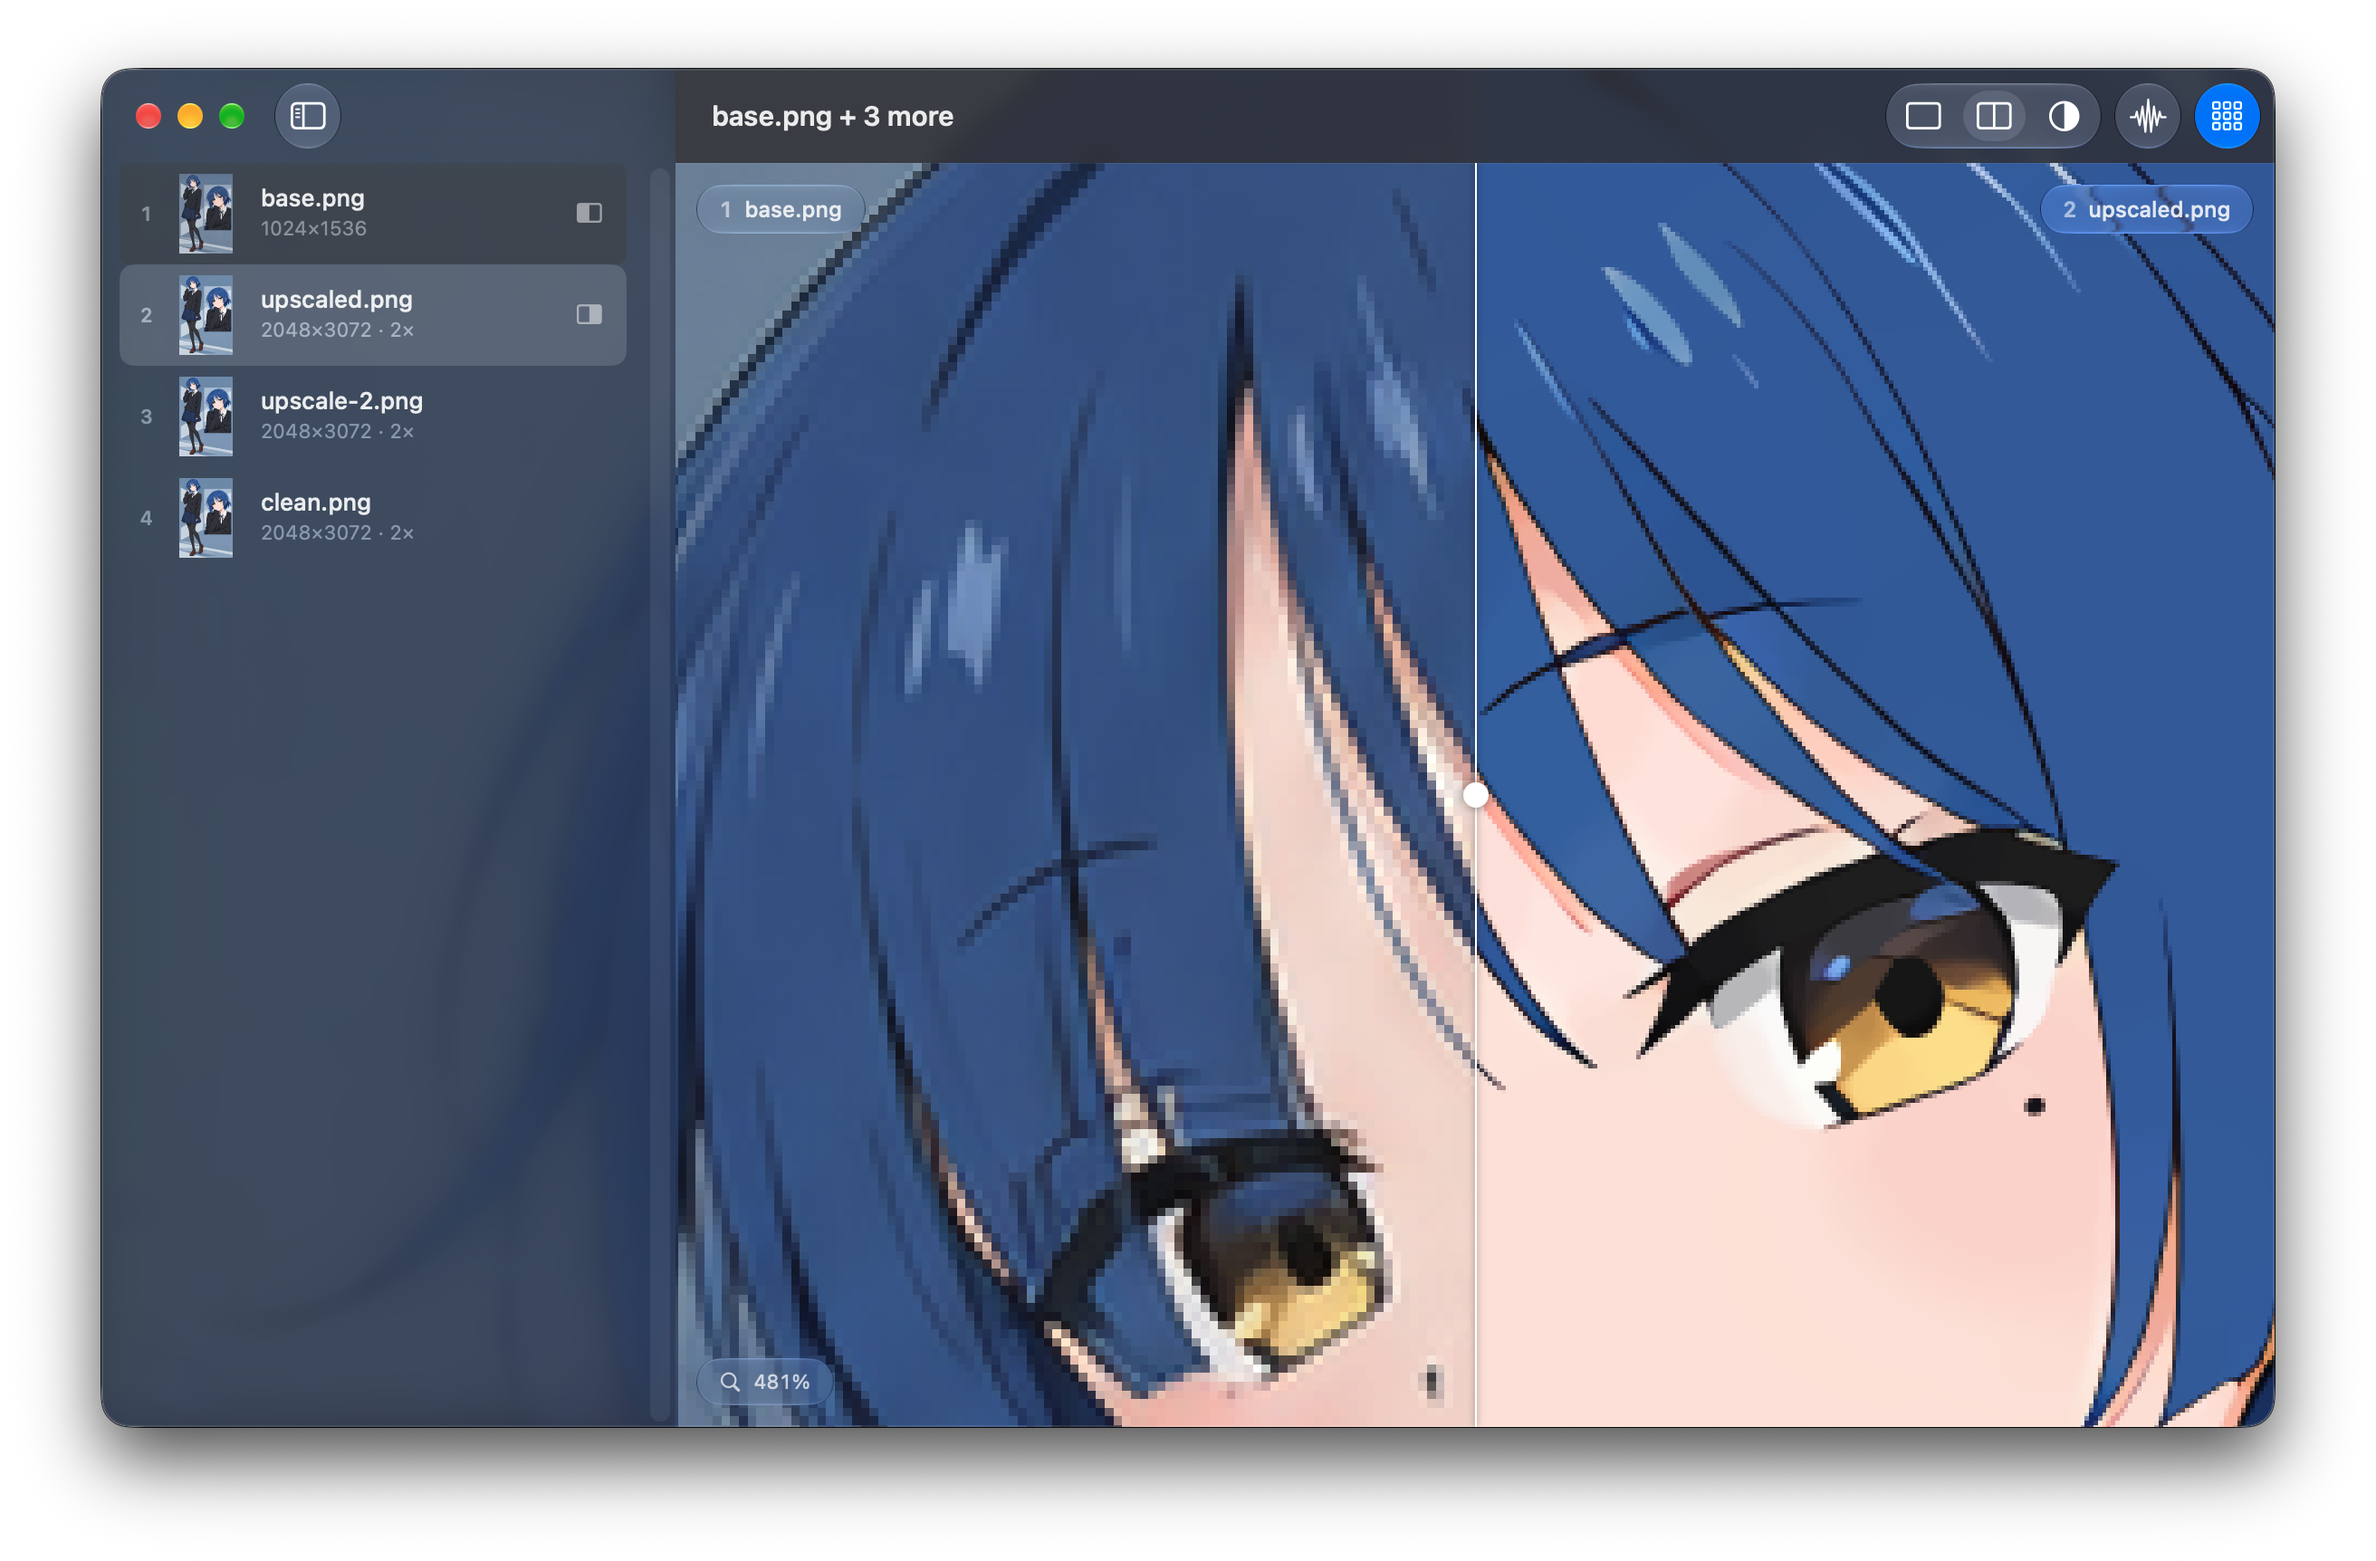
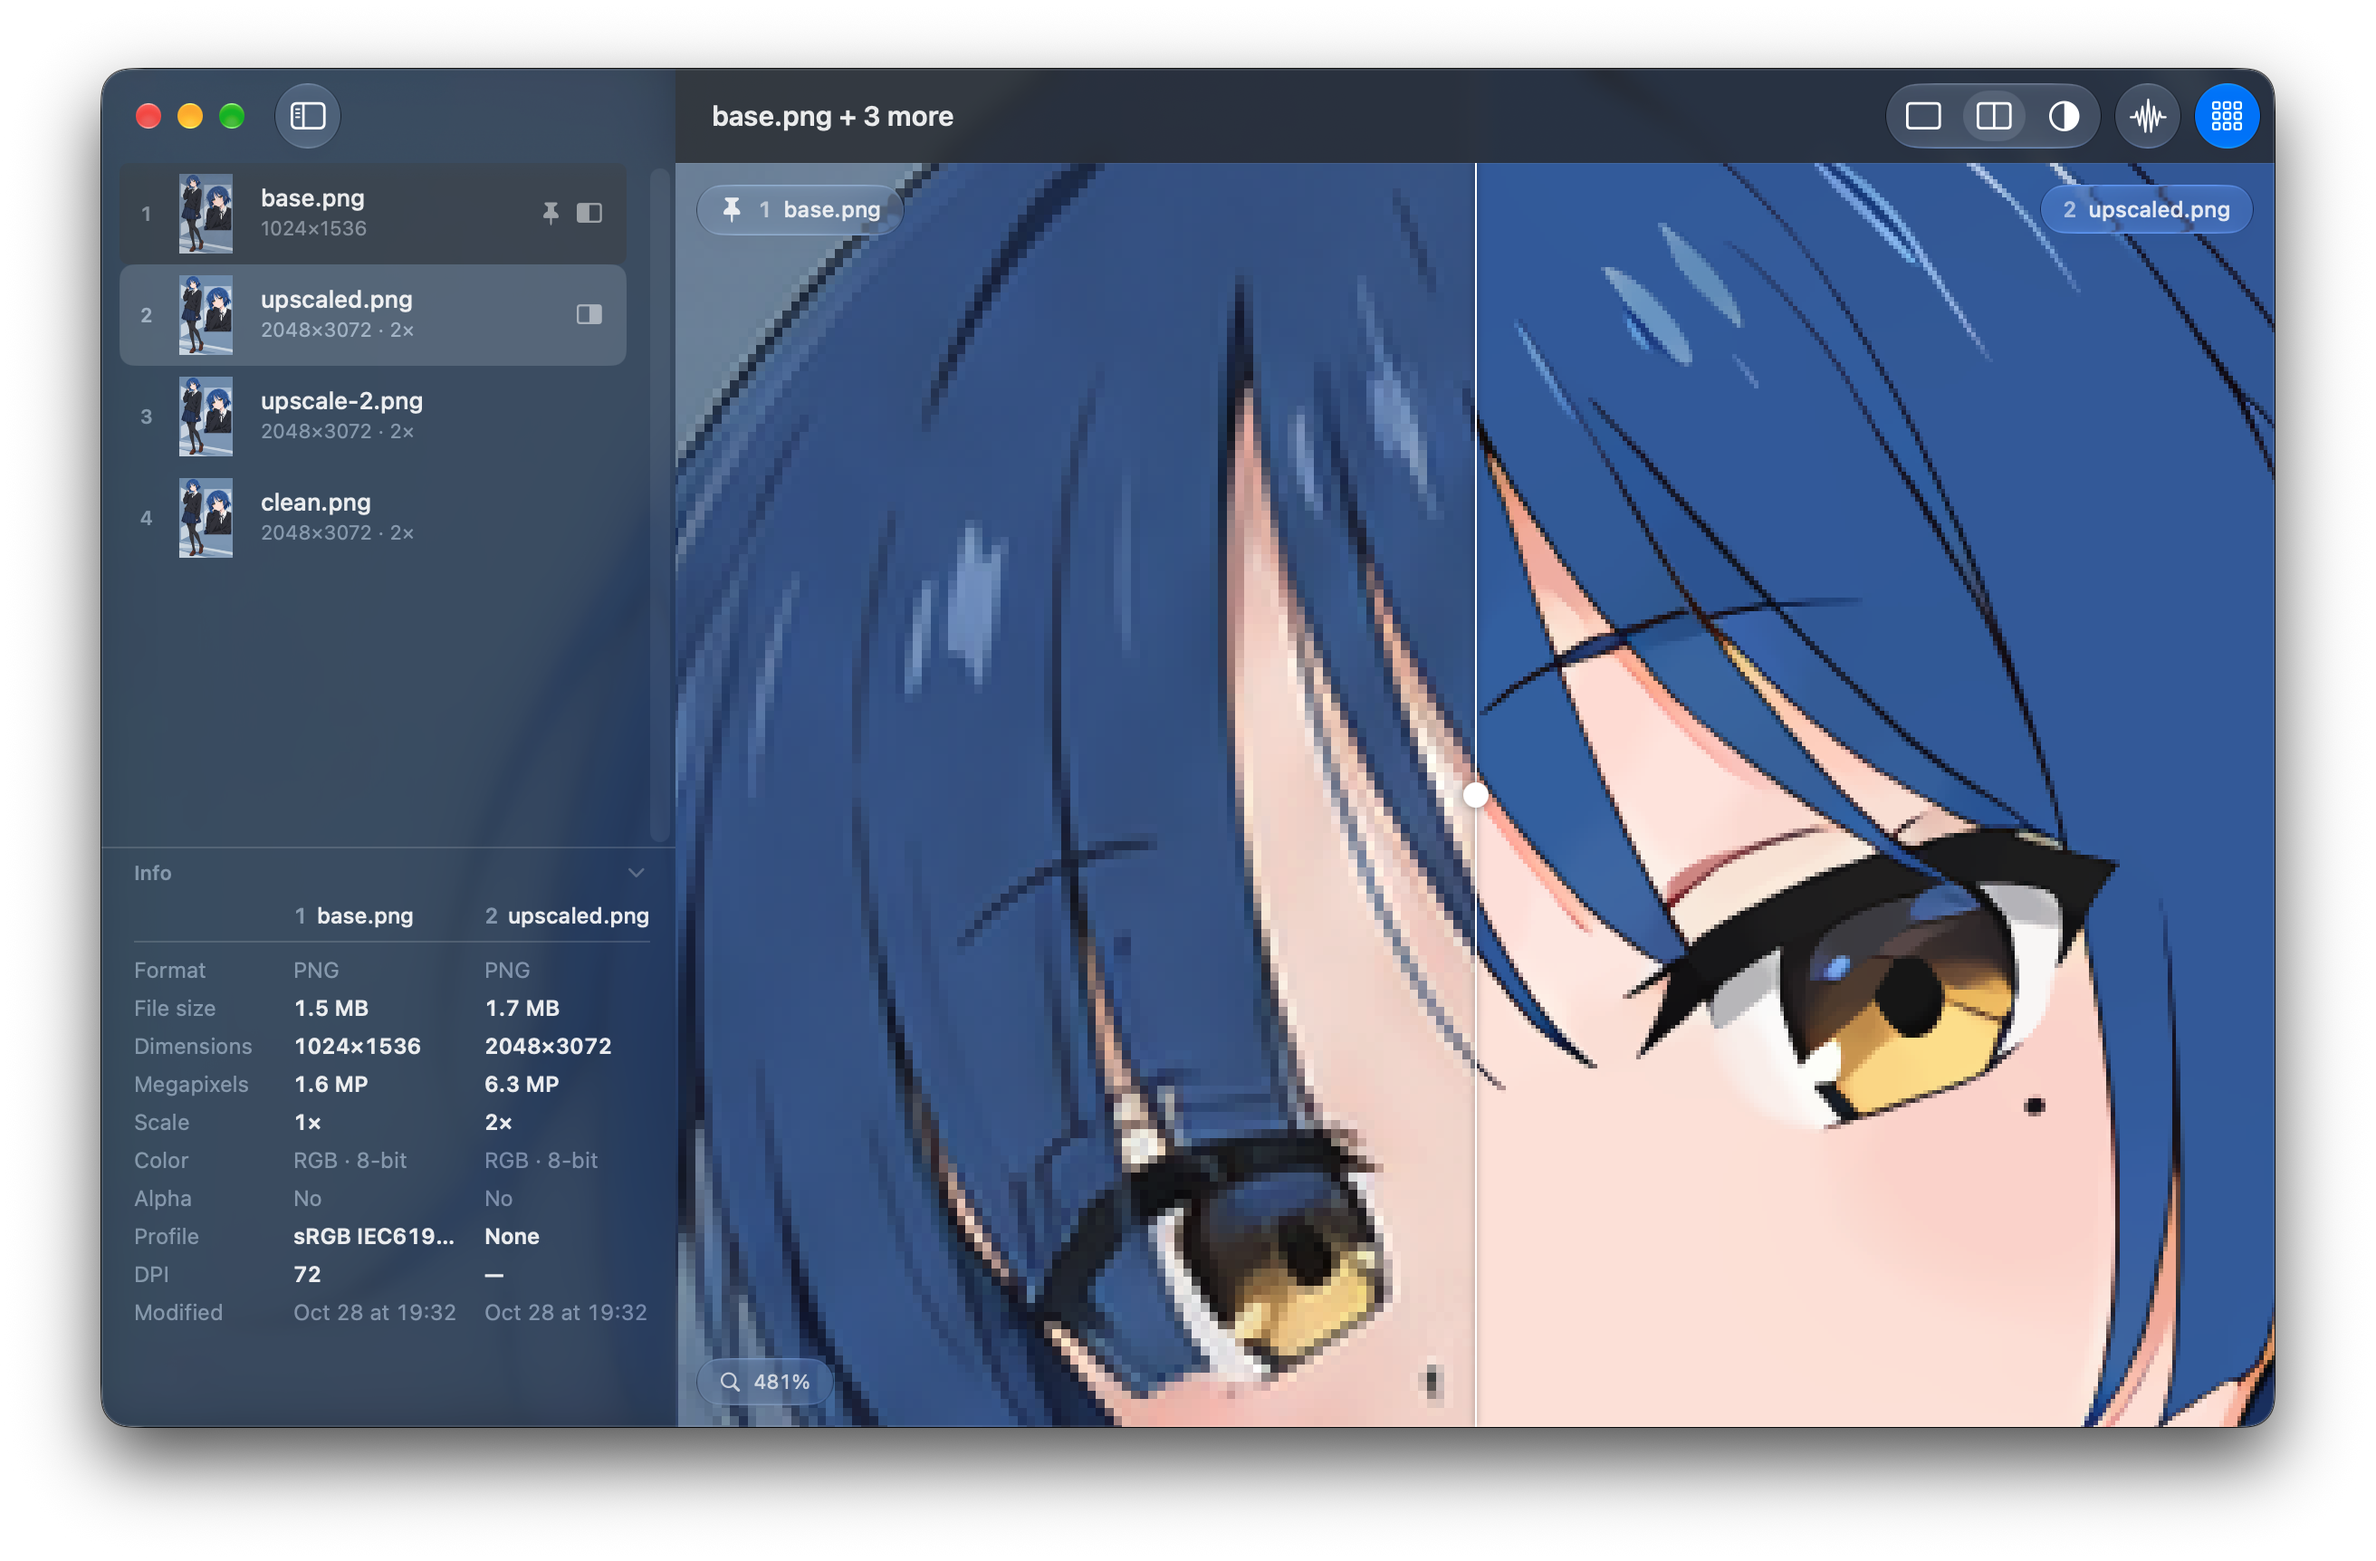
Show a pinned image and the Info section in the README screenshots

diff --git a/README.md b/README.md
@@ -11,7 +11,7 @@
 
 <picture>
   <source media="(prefers-color-scheme: dark)" srcset="docs/screenshot-dark.webp">
-  <img src="docs/screenshot-light.webp" alt="Comparator in split view, with a low-resolution image on the left and its upscaled version on the right">
+  <img src="docs/screenshot-light.webp" alt="Comparator in split view, with a pinned low-resolution image on the left, its upscaled version on the right, and the Info section showing both images' details">
 </picture>
 
 - Switch between images without losing your place.
